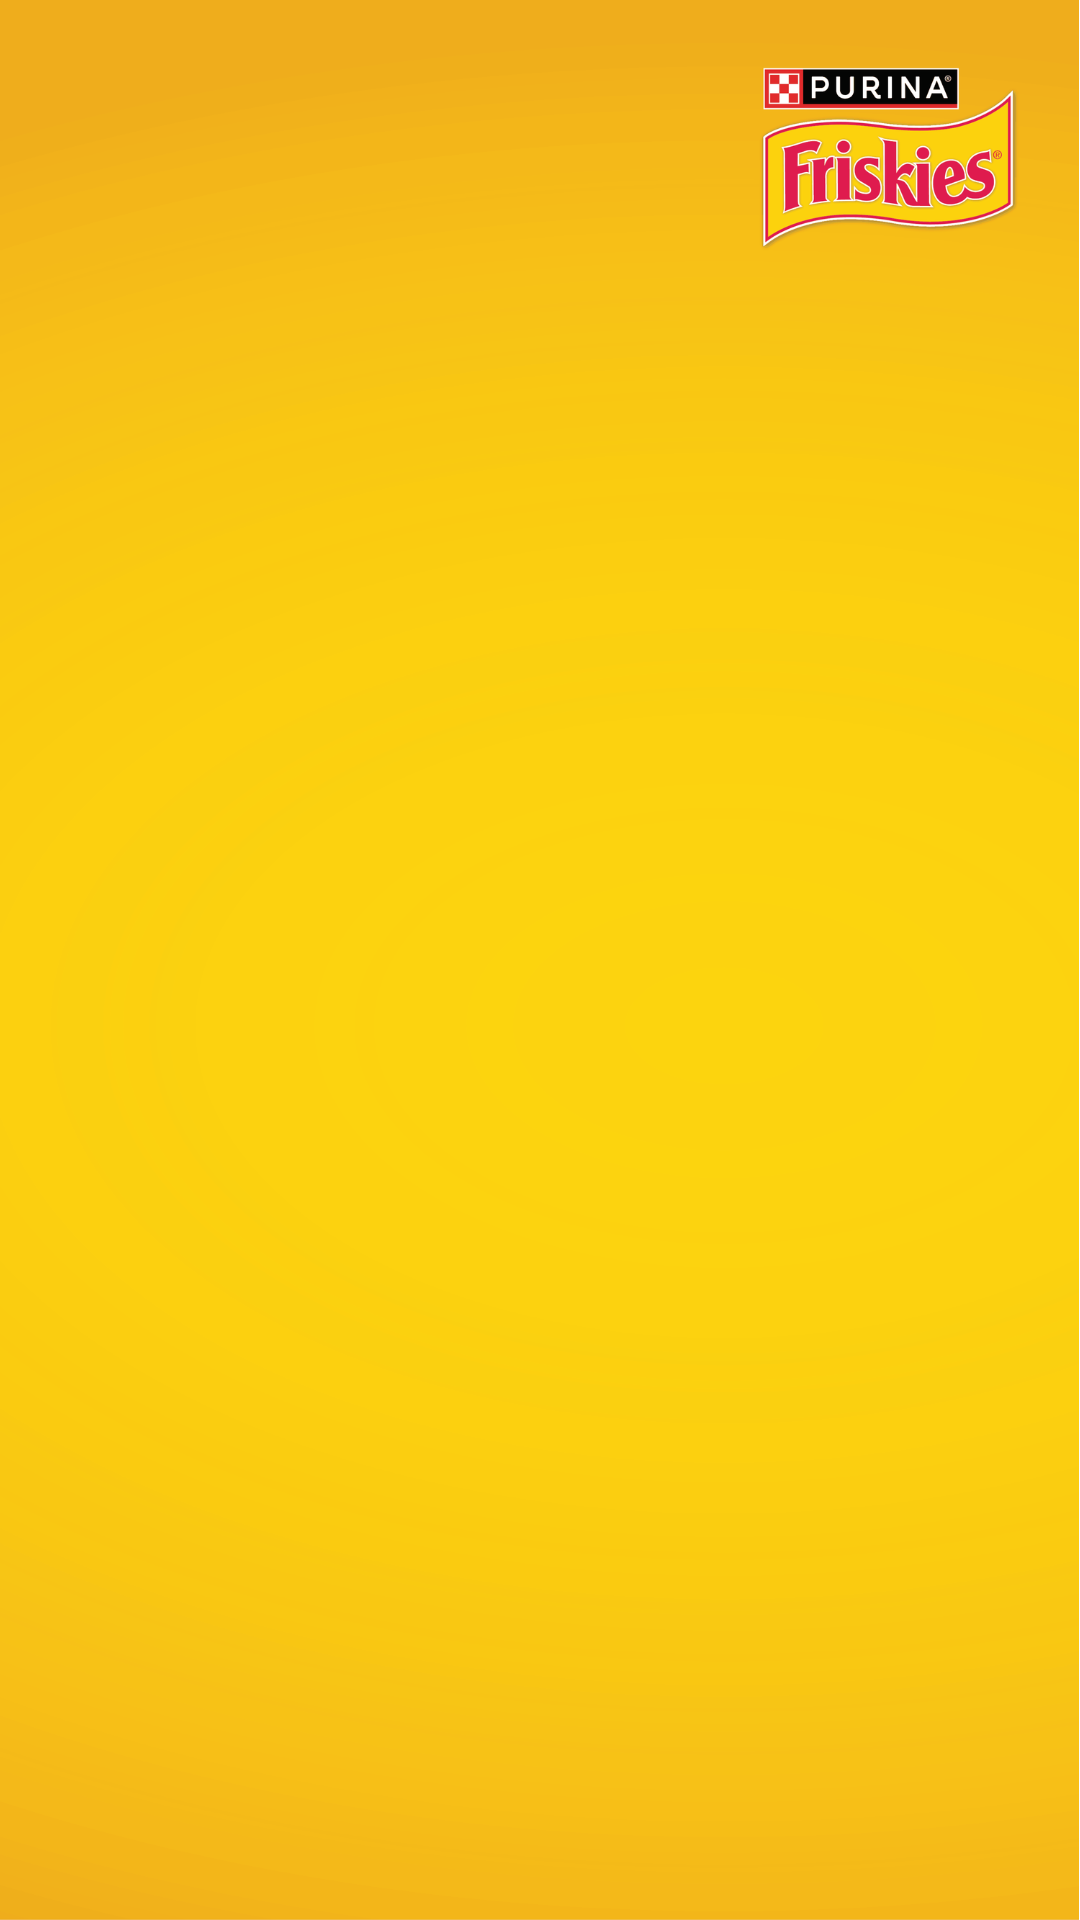
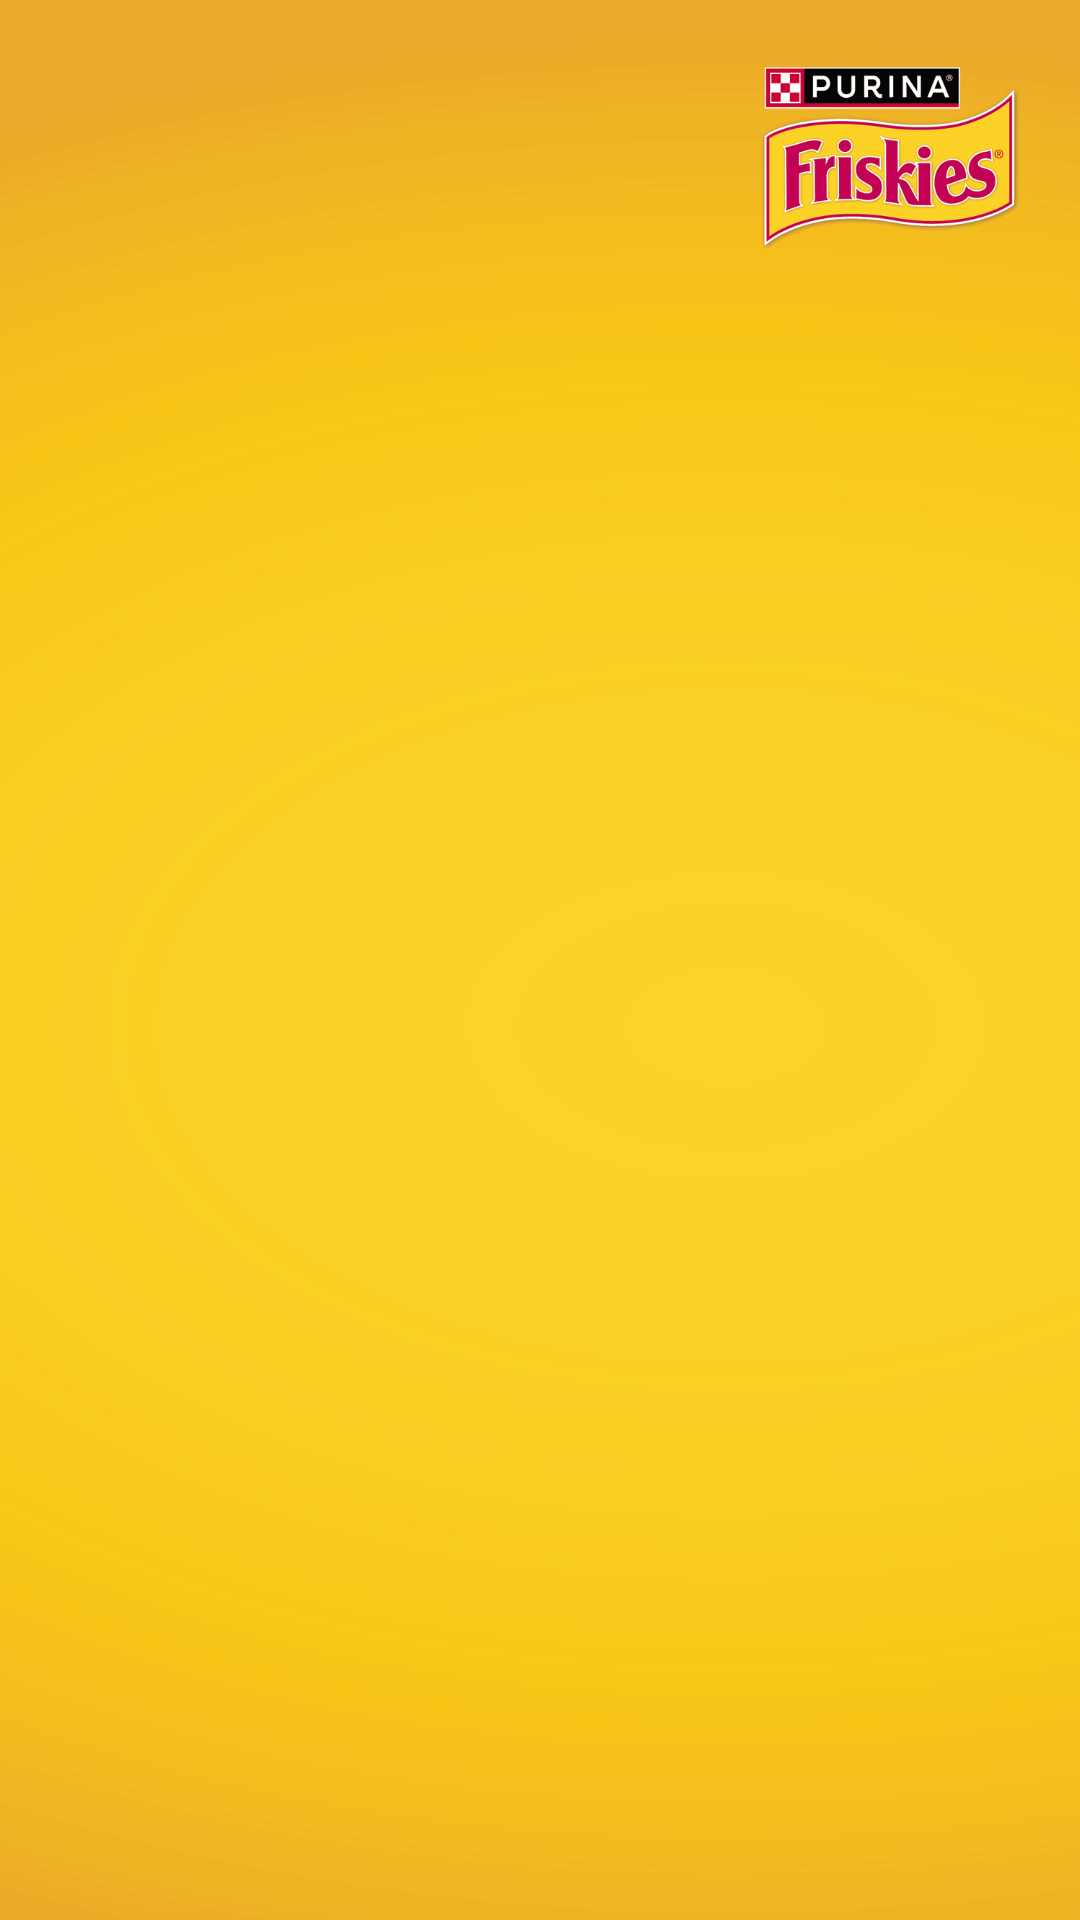
final check

Changed region(s): [[0.4278, 0.4375, 0.9167, 0.625], [0.7028, 0.0312, 0.9472, 0.125]]

diff --git a/static/style.css b/static/style.css
@@ -25,6 +25,12 @@ body {
   position: relative;
   background-size: cover;
   background-position: center;
+  animation: fadeIn 0.5s ease forwards;
+}
+
+@keyframes fadeIn {
+  from { opacity: 0; }
+  to { opacity: 1; }
 }
 .logo-wrap {
   position: absolute;
@@ -210,11 +216,11 @@ body {
   background: rgba(0, 0, 0, 0.45);
 }
 .scoreboard__card {
-  background: rgba(12, 18, 28, 0.74);
+  background: #ffffff;
   border-radius: 28px;
   padding: 36px;
-  border: 1px solid rgba(255, 255, 255, 0.12);
-  box-shadow: 0 30px 60px rgba(0, 0, 0, 0.45);
+  border: none;
+  box-shadow: 0 8px 48px rgba(0, 0, 0, 0.35);
   display: flex;
   flex-direction: column;
   gap: 28px;
@@ -227,29 +233,31 @@ body {
   font-size: 44px;
   font-weight: 700;
   letter-spacing: 0.02em;
+  color: #111111;
 }
 .scoreboard__points {
   margin: 8px 0 0;
   font-size: 72px;
   font-weight: 800;
-  color: var(--color-primary);
-  text-shadow: 0 6px 16px rgba(0, 0, 0, 0.5);
+  color: #df1b4e;
+  text-shadow: none;
 }
 .scoreboard__rank {
   margin-top: 10px;
   font-size: 20px;
-  opacity: 0.85;
+  opacity: 1;
+  color: #333333;
 }
 .scoreboard__rank strong {
   font-size: 24px;
   font-weight: 800;
-  color: var(--color-primary);
+  color: #df1b4e;
 }
 .scoreboard__list {
-  background: rgba(0, 0, 0, 0.35);
+  background: #f5f5f5;
   border-radius: 20px;
   padding: 24px;
-  border: 1px solid rgba(255, 255, 255, 0.08);
+  border: 1px solid #e0e0e0;
 }
 .scoreboard__list-head {
   display: flex;
@@ -262,10 +270,12 @@ body {
   font-size: 24px;
   letter-spacing: 0.08em;
   text-transform: uppercase;
+  color: #111111;
 }
 .scoreboard__list-sub {
   font-size: 14px;
-  opacity: 0.6;
+  opacity: 1;
+  color: #555555;
   position: relative;
   left: -20px;
 }
@@ -283,29 +293,33 @@ body {
   align-items: center;
   padding: 14px 18px;
   border-radius: 14px;
-  background: rgba(255, 255, 255, 0.06);
+  background: #ffffff;
   font-size: 20px;
   letter-spacing: 0.01em;
-  backdrop-filter: blur(4px);
   gap: 12px;
+  border: 1px solid #e0e0e0;
+  color: #111111;
 }
 .leaderboard__row--player {
-  border: 1px solid var(--color-primary);
-  box-shadow: 0 0 0 3px rgba(255, 215, 0, 0.15);
-  background: rgba(255, 215, 0, 0.15);
+  border: 2px solid #df1b4e;
+  box-shadow: 0 0 0 3px rgba(223, 27, 78, 0.15);
+  background: #fff0f3;
 }
 .leaderboard__row--spacer {
   grid-template-columns: 1fr;
   justify-items: center;
   background: transparent;
+  border: none;
   padding: 6px 0;
-  opacity: 0.6;
+  opacity: 1;
   font-size: 18px;
+  color: #555555;
 }
 .leaderboard__row--empty {
   grid-template-columns: 1fr;
   justify-items: center;
-  background: rgba(0, 0, 0, 0.4);
+  background: #f5f5f5;
+  color: #333333;
 }
 .leaderboard__rank,
 .leaderboard__name,
@@ -313,6 +327,7 @@ body {
   font-weight: 600;
   display: flex;
   align-items: center;
+  color: #111111;
 }
 .leaderboard__rank {
   font-feature-settings: "tnum";

diff --git a/templates/welcome.html b/templates/welcome.html
@@ -6,7 +6,14 @@
   <div class="logo-wrap">
     <!-- <img class="logo" src="{{ cfg.branding.logo }}" alt="Logo" /> -->
   </div>
-  <form class="card form" method="post" action="/start" autocomplete="off">
+
+  <!-- Touch to Start -->
+  <div id="touch-to-start" class="touch-to-start" onclick="revealForm()">
+    <span class="touch-text">Touch to Start</span>
+  </div>
+
+  <!-- Form (hidden initially) -->
+  <form id="register-form" class="card form hidden" method="post" action="/start" autocomplete="off">
     <label>Name</label>
     <input
       type="text"
@@ -29,4 +36,41 @@
     <button type="submit" class="btn btn-primary submit-button">Register</button>
   </form>
 </div>
+
+<style>
+  .touch-to-start {
+    position: absolute;
+    left: 50%;
+    top: 50%;
+    transform: translate(-50%, -50%);
+    display: flex;
+    align-items: center;
+    justify-content: center;
+    cursor: pointer;
+    user-select: none;
+  }
+
+  .touch-text {
+    font-size: 5em;
+    font-weight: 800;
+    color: #fff;
+    text-align: center;
+    animation: pulse 2s ease-in-out infinite;
+    text-shadow: 0 4px 24px rgba(0,0,0,0.5);
+  }
+
+  @keyframes pulse {
+    0%, 100% { opacity: 1; transform: scale(1); }
+    50% { opacity: 0.6; transform: scale(0.97); }
+  }
+</style>
+
+<script>
+  function revealForm() {
+    document.getElementById("touch-to-start").style.display = "none";
+    const form = document.getElementById("register-form");
+    form.classList.remove("hidden");
+    document.getElementById("name").focus();
+  }
+</script>
 {% endblock %}

diff --git a/templates/base.html b/templates/base.html
@@ -31,5 +31,31 @@
     {% block content %}{% endblock %}
   </main>
   <script src="/static/main.js"></script>
+  <script>
+    // Fade out before navigation
+    document.addEventListener("click", (e) => {
+      const link = e.target.closest("a[href]");
+      if (!link) return;
+      const href = link.getAttribute("href");
+      if (!href || href.startsWith("#") || href.startsWith("http") || link.target === "_blank") return;
+      e.preventDefault();
+      const screen = document.querySelector(".screen");
+      if (screen) {
+        screen.style.transition = "opacity 0.4s ease";
+        screen.style.opacity = "0";
+        setTimeout(() => { window.location.href = href; }, 400);
+      } else {
+        window.location.href = href;
+      }
+    });
+
+    // Fade out before form submit
+    document.addEventListener("submit", (e) => {
+      const screen = document.querySelector(".screen");
+      if (!screen) return;
+      screen.style.transition = "opacity 0.4s ease";
+      screen.style.opacity = "0";
+    });
+  </script>
 </body>
 </html>